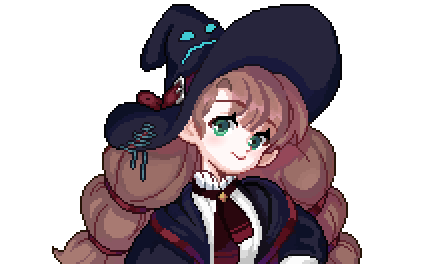
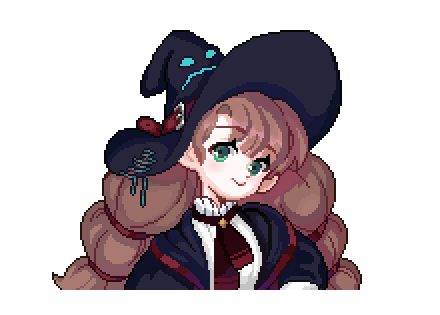
Add files via upload
이미지 용량 줄이기

Changed region(s): [[0.1182, 0.0, 0.8273, 1.0]]

diff --git a/index.html b/index.html
@@ -107,7 +107,7 @@
                  <p class="text-muted" style="word-break: keep-all;">Little Witch in the Woods의 세계에는 색다른 테마의 지역들이 존재합니다.<br>
                  각 테마마다 다른 모습을 가진 크리쳐들을 만날 수 있습니다.<br>
                  탐험을 떠나 새로운 테마를 가진 지역을 찾고, 숨겨진 장소도 찾아보시길 바랍니다.</p>
-                 <img src="assets/img/feature/02.png" alt="" style="max-width:100%;height:auto; float:center; margin-bottom:20px;">
+                 <img src="assets/img/feature/02.jpg" alt="" style="max-width:100%;height:auto; float:center; margin-bottom:20px;">
                  <div style="text-align:center;">
                  <img src="assets/img/feature/02.gif" alt="" style="max-width:100%;height:auto; float:center; margin-bottom:20px;">
                  <img src="assets/img/feature/03.gif" alt="" style="max-width:100%;height:auto; float:center;">
@@ -151,7 +151,7 @@
                     <br><br><br><br>
                     <img src="assets/img/story/02.png" alt="" style="max-width:100%;height:auto; float:right; margin-bottom:10px;">
                     <br><br><br>
-                    <p class="b section-subheading text-muted" style="word-break: keep-all;"><font size=5 color=3c3c3c>
+                    <p class="b section-subheading text-muted" style="word-break: keep-all;" ><font size=5 color=3c3c3c>
                     마녀&nbsp;사회&nbsp(society&nbsp;of&nbsp;witchcraft)</p><div></font>
                     <hr align="left" width="15%">
                     <p class="text-muted">대륙 남서부 침엽수림 깊은 곳에는 마녀 학교를 중심으로 마녀들의 도시가 새워져 있다. 

diff --git a/css/styles.css b/css/styles.css
@@ -10145,7 +10145,7 @@ header.masthead {
   padding-bottom: 6rem;
   text-align: center;
   color: #fff;
-  background-image: url("../assets/img/header-bg.png");
+  background-image: url("../assets/img/header-bg.jpg");
   background-repeat: no-repeat;
   background-attachment: scroll;
   background-position: center center;
